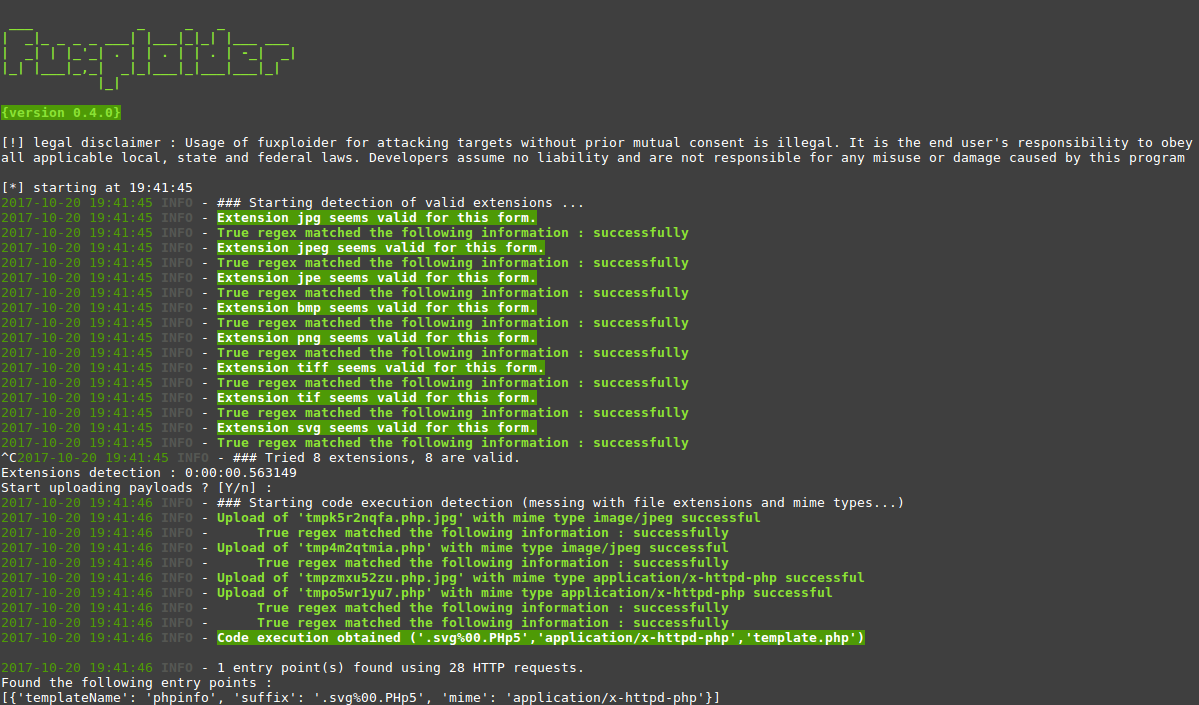
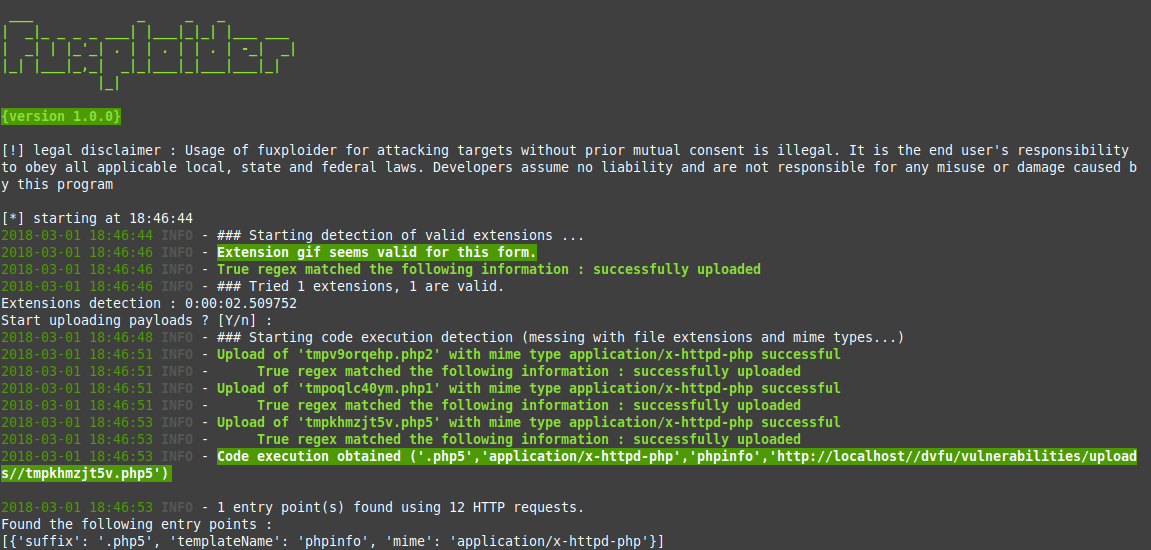
Changed version number, readme and screenshot

Changed region(s): [[0.0, 0.0309, 1.0, 1.0]]

diff --git a/fuxploider.py b/fuxploider.py
@@ -4,7 +4,7 @@ from utils import *
 from UploadForm import UploadForm
 from threading import Lock
 #signal.signal(signal.SIGINT, quitting)
-version = "0.5.0"
+version = "1.0.0"
 logging.basicConfig(datefmt='[%m/%d/%Y-%H:%M:%S]')
 logger = logging.getLogger("fuxploider")
 

diff --git a/README.md b/README.md
@@ -2,7 +2,7 @@
 
 [![Python 3.5|3.6](https://img.shields.io/badge/python-3.5%2F3.6-green.svg)](https://www.python.org/) [![License](https://img.shields.io/badge/license-GPLv3-red.svg)](https://raw.githubusercontent.com/almandin/fuxploider/master/LICENSE.md)
 
-fuxploider is an open source penetration testing tool that automates the process of detecting and exploiting file upload forms flaws. This tool is able to detect the file types allowed to be uploaded and is able to detect which technique will work best to upload web shells or any malicious file on the desired web server.
+Fuxploider is an open source penetration testing tool that automates the process of detecting and exploiting file upload forms flaws. This tool is able to detect the file types allowed to be uploaded and is able to detect which technique will work best to upload web shells or any malicious file on the desired web server.
 
 Screenshots
 ----
